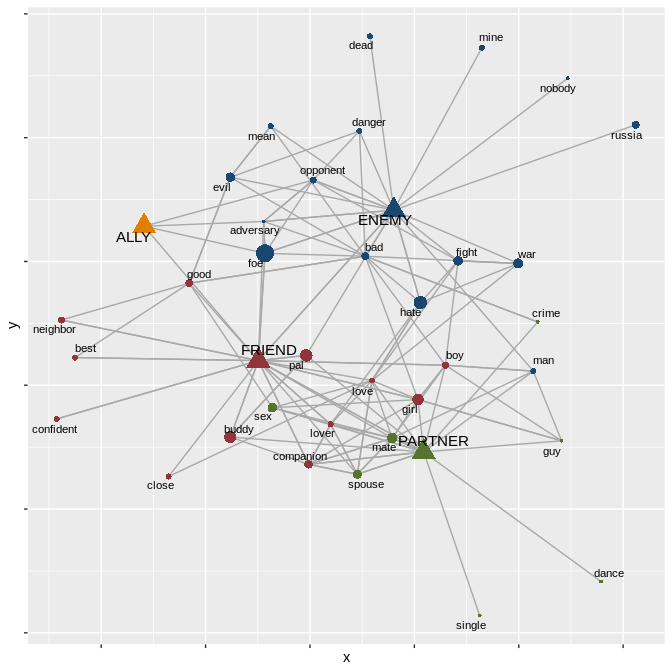
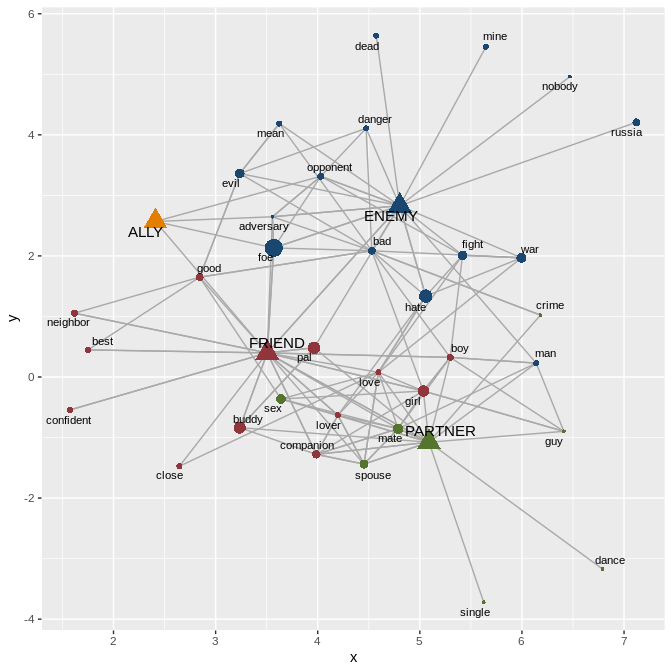
re

diff --git a/README.md b/README.md
@@ -1,4 +1,5 @@
-\#lexvarsdatr
+lexvarsdatr
+===========
 
 An R package: some tools for investigating lexical variation from both
 behavioral and distributional perspectives. Including (1) a collection
@@ -6,7 +7,8 @@ of psycholinguistic/behavioral data sets & (2) some functions for
 extracting semantic associations and network structures from
 term-feature matrices.
 
-\#\#Installation
+Installation
+------------
 
 ``` r
 library(devtools)
@@ -14,7 +16,8 @@ library(devtools)
 library(lexvarsdatr) 
 ```
 
-\#\#Usage
+Usage
+-----
 
 ### Behavioral data
 
@@ -29,9 +32,10 @@ ratings, and word association norms. Sources are presented below:
 | AoA ratings                 | Kuperman, V., Stadthagen-Gonzalez, H., & Brysbaert, M. (2012). Age-of-acquisition ratings for 30,000 English words. *Behavior Research Methods*, 44(4), 978-990.                                                  |
 | Word association            | Nelson, D. L., McEvoy, C. L., & Schreiber, T. A. (2004). The University of South Florida free association, rhyme, and word fragment norms. *Behavior Research Methods, Instruments, & Computers*, 36(3), 402-407. |
 
-Response times in lexical decision/naming, concreteness ratings, and AoA
-ratings have been collated into a single data frame, `lex_behav_data`.
-Approximately 18K word forms are included in all three data sets.
+<br> Response times in lexical decision/naming, concreteness ratings,
+and AoA ratings have been collated into a single data frame,
+`lex_behav_data`. Approximately 18K word forms are included in all three
+data sets.
 
 ``` r
 library(tidyverse)
@@ -53,7 +57,7 @@ lexvarsdatr::lvdr_behav_data %>% na.omit %>% head()
     ## 27 201.23     10.50  1.79       3.10   1.54          16
     ## 28 149.43      9.11  2.37       3.07   1.51          12
 
-The South Florida word association data can be accessed via
+<br> The **South Florida word association data** can be accessed via
 `lvdr_association`. A description of variables included in the normed
 data set, as well as methodologies, can be found
 [here](http://w3.usf.edu/FreeAssociation/). Word association data is
@@ -91,6 +95,8 @@ tcm <- text2vec::create_tcm(t2v_ents,
                            weight = c(1,1,1,1,1)) #No weight
 ```
 
+<br>
+
 #### Build PPMI Matrix
 
 A simple function for transforming a count-based co-occurrence matrix to
@@ -102,17 +108,19 @@ tcm_ppmi <- tcm %>%
   lexvarsdatr::lvdr_calc_ppmi(make_symmetric = TRUE)
 ```
 
+<br>
+
 #### Get collocates/neighbors, etc.
 
-The `lvdr_get_closest` function can be used to extract the *n* highest
+The `lvdr_get_closest` function can be used to extract the `n` highest
 scoring features associated with a term (or set of terms) from a
 term-feature matrix. Assumes a column-oriented matrix (`dgCMatrix`) as
 input. `data.table` dependency. Modified from the
 `udpipe::as.cooccurrence()` function.
 
-In the case of the SOTU PPMI co-occurrence matrix created above, we
-extract the ten strongest *collocates* of the term VIOLENCE. Output is a
-simple data frame.
+Per the SOTU PPMI co-occurrence matrix created above, we extract the ten
+strongest **collocates** of the term VIOLENCE. Output is a simple data
+frame.
 
 ``` r
 lexvarsdatr::lvdr_get_closest(tfm = tcm_ppmi, 
@@ -136,10 +144,10 @@ lexvarsdatr::lvdr_get_closest(tfm = tcm_ppmi,
 | VIOLENCE | MEDIA        |  5.672473|
 | VIOLENCE | SUPPRESSING  |  5.644302|
 
-The function can also be used to extract **nearest neighbors** from a
-cosine similarity matrix. To demonstrate, we (1) consolidate feature set
-to 150 latent dimensions via singular-value decomposition, and then (2)
-construct cosine-based, term-term similarity matrix.
+<br> The function can also be used to extract **nearest neighbors** from
+a cosine similarity matrix. To demonstrate, we (1) consolidate feature
+set to 150 latent dimensions via singular-value decomposition, and then
+(2) construct cosine-based, term-term similarity matrix.
 
 ``` r
 tcm_svd <-  irlba::irlba (tcm_ppmi, nv = 150)
@@ -154,30 +162,31 @@ cos_sim <- text2vec::sim2(x = tcm_svd1,
                           norm = 'l2')
 ```
 
-Per matrix, we extract the five closest *neighbors* (ie, \~synonyms) for
-the terms TARIFF and ALLY. NOTE: Depending on the extent of the
-vocabulary, … and distinguish collocates \~ neighbors.
+<br> Per matrix, we extract the five closest **neighbors** (ie,
+\~synonyms) for the terms TARIFF and SCIENCE.
 
 ``` r
 #library(data.table)
 lexvarsdatr::lvdr_get_closest(tfm = cos_sim, 
-                              target = c('TARIFF','ALLY'), 
+                              target = c('TARIFF','SCIENCE'), 
                               n = 5) %>%
   knitr::kable(row.names = FALSE)
 ```
 
-| term   | feature      |       cooc|
-|:-------|:-------------|----------:|
-| ALLY   | CHAOS        |  0.4025222|
-| ALLY   | ANCIENT      |  0.3767013|
-| ALLY   | FRIEND       |  0.3755667|
-| ALLY   | DENY         |  0.3472773|
-| ALLY   | DESTINIES    |  0.3169409|
-| TARIFF | TAXATION     |  0.4863110|
-| TARIFF | AD           |  0.4095899|
-| TARIFF | PROTECTIVE   |  0.4077821|
-| TARIFF | REVENUE      |  0.3908605|
-| TARIFF | IMPORTATIONS |  0.3863326|
+| term    | feature       |       cooc|
+|:--------|:--------------|----------:|
+| SCIENCE | RESEARCH      |  0.5653483|
+| SCIENCE | TECHNOLOGY    |  0.5614905|
+| SCIENCE | SCIENTIFIC    |  0.4301217|
+| SCIENCE | SPACE         |  0.4027448|
+| SCIENCE | TECHNOLOGICAL |  0.3857535|
+| TARIFF  | TAXATION      |  0.4863175|
+| TARIFF  | AD            |  0.4095989|
+| TARIFF  | PROTECTIVE    |  0.4077394|
+| TARIFF  | REVENUE       |  0.3908626|
+| TARIFF  | IMPORTATIONS  |  0.3863273|
+
+<br>
 
 #### Build network structure
 
@@ -206,8 +215,10 @@ network <- lexvarsdatr::lvdr_extract_network (tfm = tcm_ppmi,
                                               n = 15)
 ```
 
-Quick note: Algorithms like `GloVe`, `SVD` & `word2vec` abstract over
-the term-feature associations that underlie semantic relationships.
+<br>
+
+**Quick note**: Algorithms like `GloVe`, `SVD` & `word2vec` abstract
+over the term-feature associations that underlie semantic relationships.
 Visualizing the network structure of semantically related terms based in
 actual co-occurrence can help shed light on the sources of relatedness
 in ways that, eg, latent dimensions cannot.
@@ -237,15 +248,15 @@ network %>%
                              filter = group == 'feature'), 
                              repel = TRUE, size = 3) +
   ggthemes::scale_color_stata()+
-  theme(legend.position = "none",
-        plot.title = element_text(size=11),
-        axis.text.x = element_blank(),
-        axis.text.y = element_blank())
+  theme(legend.position = "none")
 ```
 
 ![](README_files/figure-markdown_github/unnamed-chunk-10-1.png)
 
-Another example using the word association data set:
+<br>
+
+Another take using the word association data set,
+`lvdr_association_sparse`:
 
 ``` r
 network2 <- lexvarsdatr::lvdr_extract_network(
@@ -271,10 +282,7 @@ network2 %>%
                              filter = group == 'feature'), 
                              repel = TRUE, size = 3) +
   ggthemes::scale_color_stata()+
-  theme(legend.position = "none",
-        plot.title = element_text(size=11),
-        axis.text.x = element_blank(),
-        axis.text.y = element_blank())
+  theme(legend.position = "none")
 ```
 
 ![](README_files/figure-markdown_github/unnamed-chunk-11-1.png)
